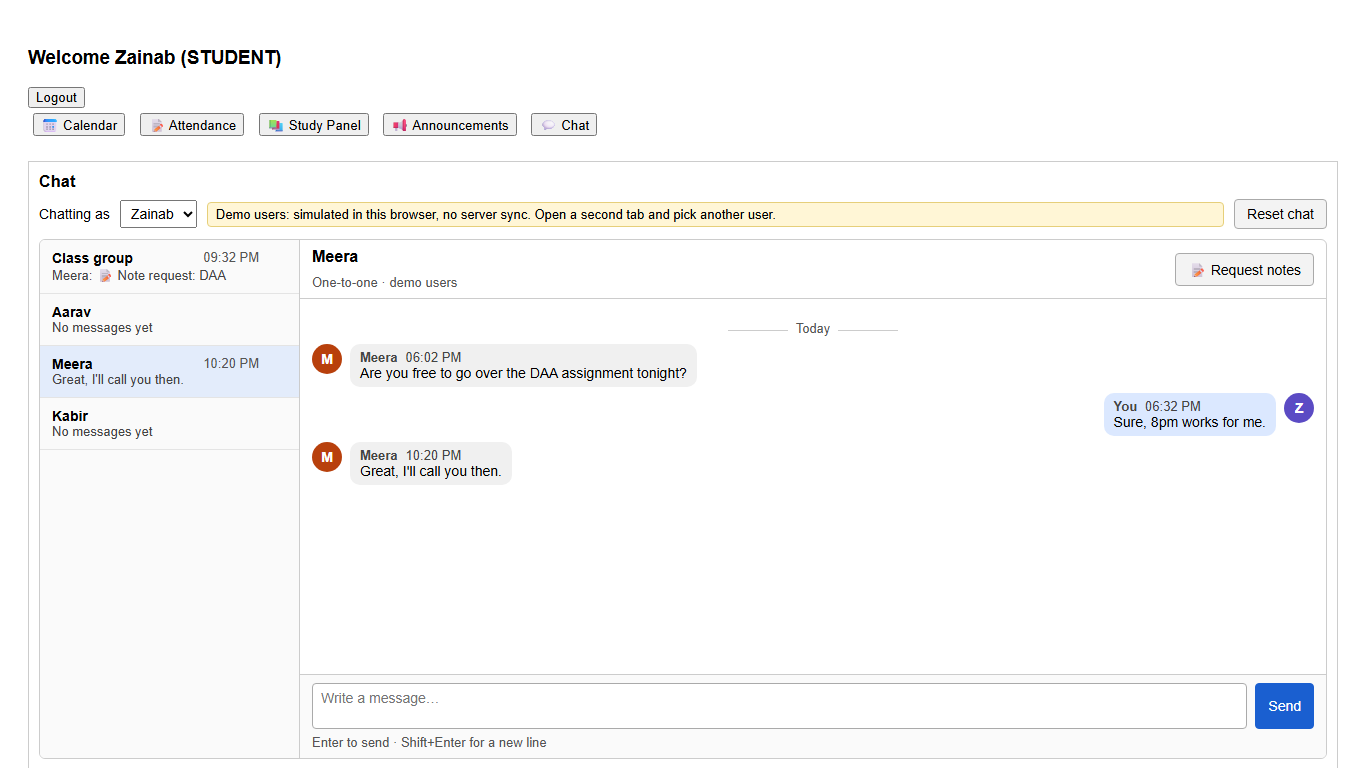
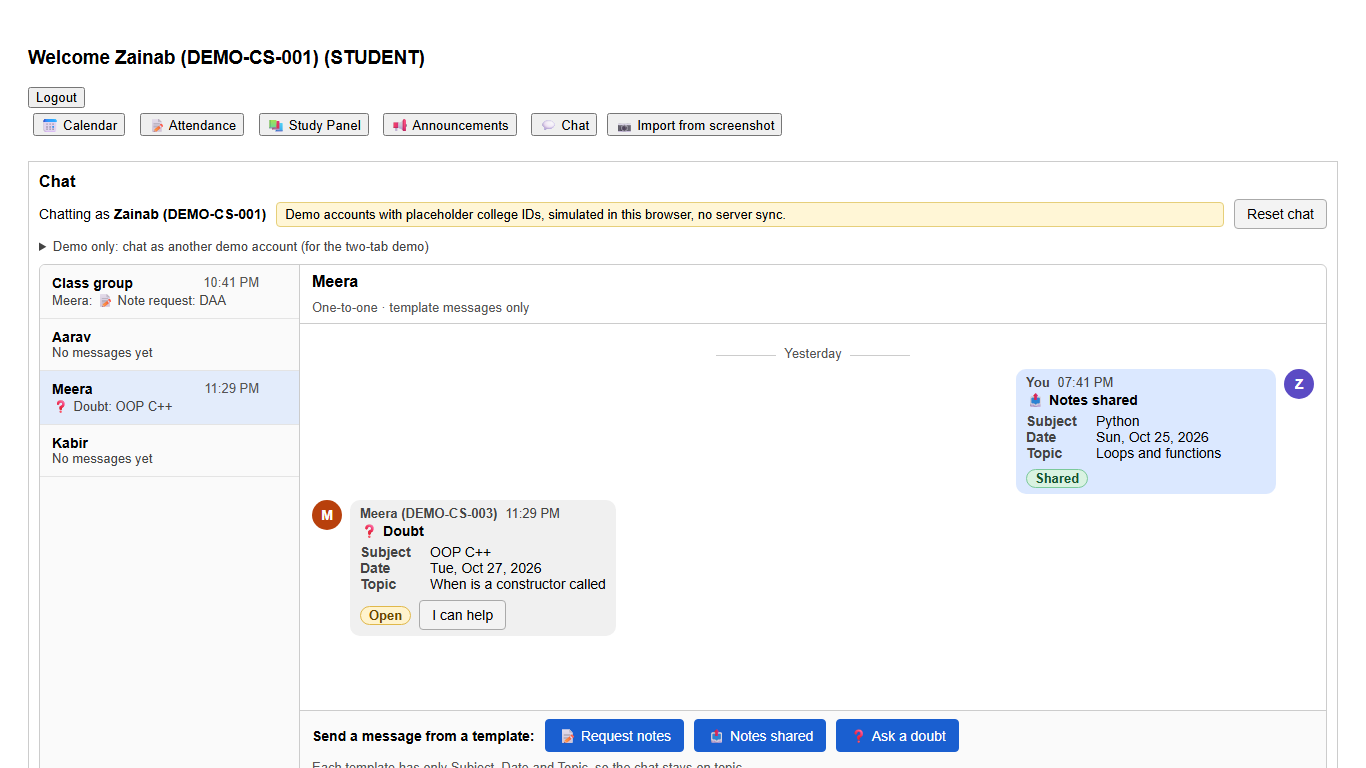
Chat screenshots regenerated for the template-only chat (from a clean checkout); screenshot script reads CAMPUS_BASE

diff --git a/vision/tests/chat_screenshots.py b/vision/tests/chat_screenshots.py
@@ -10,7 +10,7 @@ import re
 
 from playwright.sync_api import sync_playwright
 
-BASE = "http://localhost:8000"
+BASE = os.environ.get("CAMPUS_BASE", "http://localhost:8000")
 OUT = os.path.join(os.path.dirname(os.path.dirname(os.path.dirname(os.path.abspath(__file__)))), "chat_screenshots")
 os.makedirs(OUT, exist_ok=True)
 ID = {"Zainab": "DEMO-CS-001", "Aarav": "DEMO-CS-002"}
